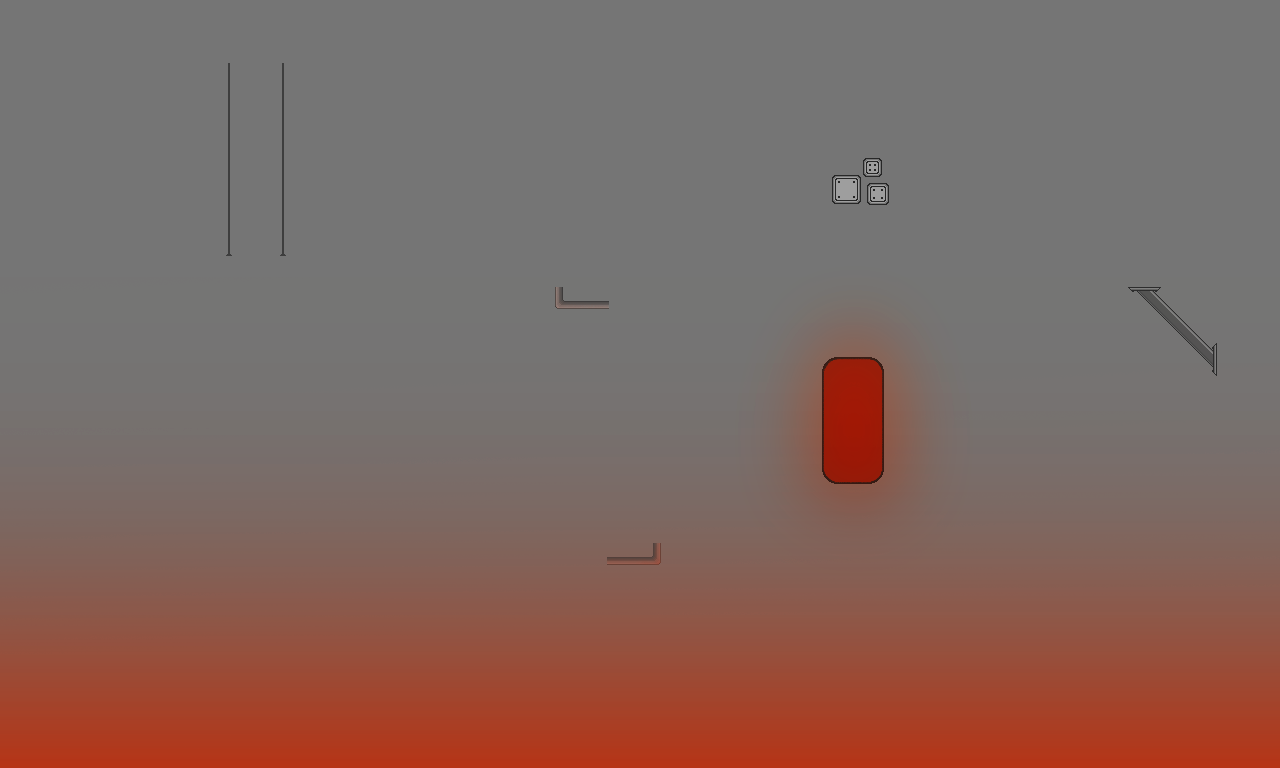
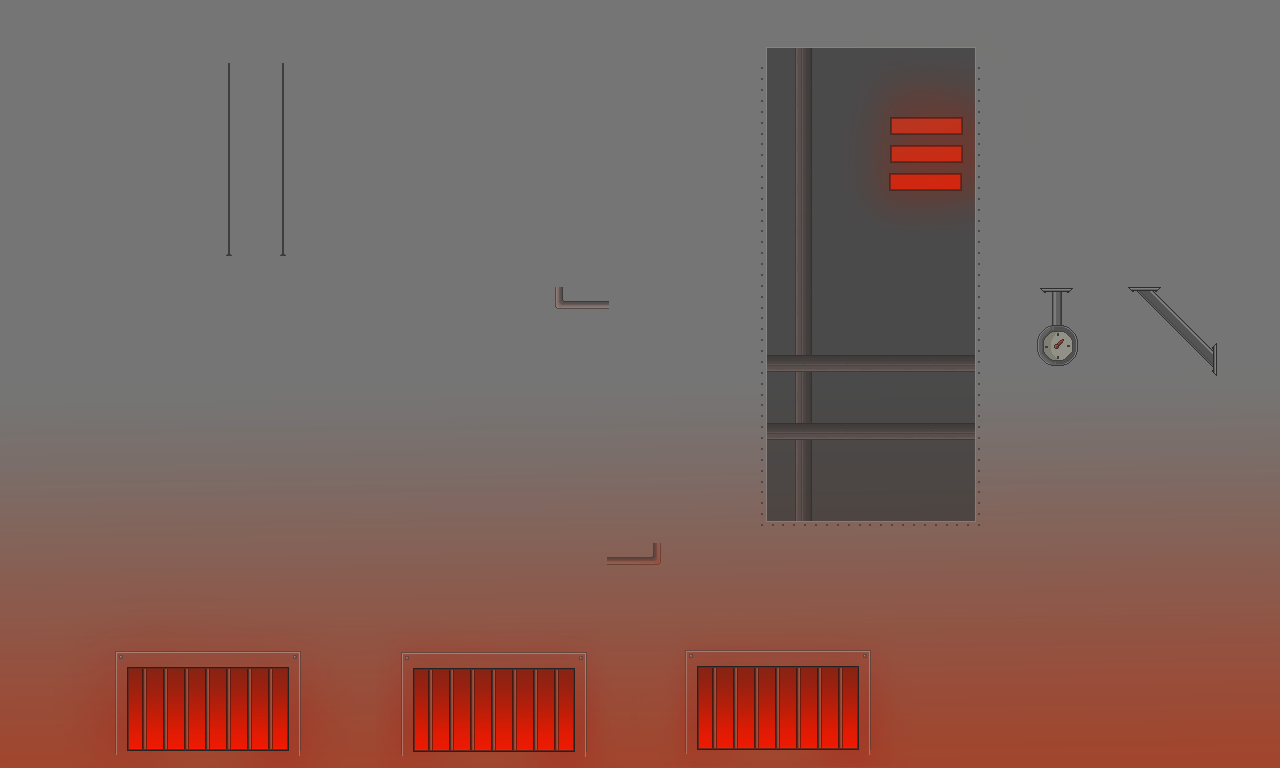
Cinema o småfix

diff --git a/RobotSplit/RobotSplit/BankMovie.cpp b/RobotSplit/RobotSplit/BankMovie.cpp
@@ -14,7 +14,11 @@ mWindow(Window::getWindow()),
 	mStix(Animation("StixWhole", 100, 1), sf::Vector2f(780, 574), false, false),
 	mStixWalk(Animation("StixWalk", 100, 8), sf::Vector2f(110, 574), false, true),
 	mStixSad(Animation("StixSad", 100, 1), sf::Vector2f(780, 574), false, false),
-	mJudge(Animation("JudgeAni", 100, 8), sf::Vector2f(1140, 280), false, true)
+	mJudge(Animation("JudgeAni", 100, 8), sf::Vector2f(1080, 242), false, true),
+	mTrapDoor(Animation("TrapDoor", 70, 15), sf::Vector2f(736, 668), false, false),
+	mButton(Animation("Button", 100, 1), sf::Vector2f(1060, 368), false, false),
+	mPressButton(Animation("JudgeButton", 70, 11), sf::Vector2f(1060, 242), false, false),
+	mFloor(Animation("RattFloor", 100, 1), sf::Vector2f(736, 683), false, false)
 {
 	mBackground=TextureManager::getSprite("CinemaBG3");
 	mBackground2=TextureManager::getSprite("CinemaBG4");
@@ -22,7 +26,6 @@ mWindow(Window::getWindow()),
 	mCounter=0;
 	mTime=0;
 	mColor=sf::Color(255, 255, 255, 255);
-	Music::stopMusic();
 
 	mStars.push_back(&mExclMark);
 	mStars.push_back(&mLights1);
@@ -31,16 +34,19 @@ mWindow(Window::getWindow()),
 	mStars.push_back(&mPolice);
 	mStars.push_back(&mPolice2);
 	mStars.push_back(&mStix);
+	mStars.push_back(&mTrapDoor);
 	mStars.push_back(&mStixSad);
 	mStars.push_back(&mJudge);
 	mStars.push_back(&mPoliceWalk);
 	mStars.push_back(&mPoliceWalk2);
 	mStars.push_back(&mStixWalk);
+	mStars.push_back(&mFloor);
+	mStars.push_back(&mButton);
+	mStars.push_back(&mPressButton);
 }
 void BankMovie::update()
 {
 	mTime++;
-	Music::stopMusic();
 	if(mCounter==0)
 		BankMovie::act();
 	else if(mCounter==1)
@@ -112,6 +118,7 @@ void BankMovie::countup()
 		mStix.setActive(true);
 		mPolice.setActive(true);
 		mPolice2.setActive(true);
+		mTime=0;
 	}
 }
 void BankMovie::endit()
@@ -163,6 +170,7 @@ void BankMovie::act2()
 		mPoliceWalk2.setActive(true);
 		mStixWalk.setActive(true);
 		mJudge.setActive(true);
+		mButton.setActive(true);
 	}
 	else if(mPoliceWalk.getPosition().x<590)
 	{
@@ -197,17 +205,28 @@ void BankMovie::act3()
 	{
 		Sound::playSound("MeanixTalkNormal");
 	}
-	else if(mTime<500 && mTime>400)
+	else if(mTime<400 && mTime>300)
 	{
 		Sound::playSound("StixTalkSad");
 		mStix.setActive(false);
 		mStixSad.setActive(true);
 	}
-	else if(mTime<700)
+	else if(mTime>600 && mTime<1000)
 	{
-		//Fallucka
+		mJudge.setActive(false);
+		mPressButton.setActive(true);
+		mButton.setActive(false);
+		if(mPressButton.getDone()==true){
+			mTrapDoor.setActive(true);
+			mFloor.setActive(true);
+			if(mTrapDoor.getDone()==true)
+			{
+				mStixSad.setPosition(mStixSad.getPosition() + sf::Vector2f(0, 3));
+				//Music::changeVolume(mMusicVolume);
+			}
+		}
 	}
-	else if(mTime>900)
+	else if(mTime>1000)
 	{
 		mCounter++;
 	}

diff --git a/RobotSplit/RobotSplit/TextureManager.cpp b/RobotSplit/RobotSplit/TextureManager.cpp
@@ -40,7 +40,6 @@ void TextureManager::loadTexture()
 	mTextureMap["MeanixBank2"].loadFromFile("Texture/Cinema/BankerAni.png");
 	mTextureMap["MeanixBank3"].loadFromFile("Texture/Cinema/mirror_Banker.png");
 	mTextureMap["MeanixBank4"].loadFromFile("Texture/Cinema/hatt_glas_kross_strip28.png");
-	
 
 	mTextureMap["CinemaBG1"].loadFromFile("Texture/Cinema/X-inaem HQ.png");
 	mTextureMap["CinemaBG2"].loadFromFile("Texture/Cinema/meanix_office_background.png");
@@ -55,6 +54,11 @@ void TextureManager::loadTexture()
 	mTextureMap["PoliceWalking"].loadFromFile("Texture/Cinema/polis_walking_strip8.png");
 	mTextureMap["StixSad"].loadFromFile("Texture/Cinema/StixSad.png");
 	mTextureMap["JudgeAni"].loadFromFile("Texture/Cinema/mirror_judge_animation_strip8.png");
+
+	mTextureMap["TrapDoor"].loadFromFile("Texture/Cinema/fallucks_animation.png");
+	mTextureMap["JudgeButton"].loadFromFile("Texture/Cinema/judge_knapp.png");
+	mTextureMap["Button"].loadFromFile("Texture/Cinema/knapp_Up.png");
+	mTextureMap["RattFloor"].loadFromFile("Texture/Cinema/Floor.png");
 	
 	//Ladda in texturen från en fil, behöver veta vad filerna på bilderna kommer att heta
 	mTextureMap["Background"].loadFromFile("Texture/Background/TestBackground3.png");
@@ -497,9 +501,7 @@ void TextureManager::loadTexture()
 
 	mTextureMap["BankBackground"].loadFromFile("Texture/Background/BackgroundBank.png");
 
-	mTextureMap["Bana1_bg1"].loadFromFile("Texture/Background/Background_Part01.png");
-
-	mTextureMap["Bana1_bg2"].loadFromFile("Texture/Background/Background_Part02.png");
+	mTextureMap["Bana1_bg1"].loadFromFile("Texture/Background/background.png");
 
 	mTextureMap["Bana2_bg1"].loadFromFile("Texture/Background/Background_2_Part01.png");
 

diff --git a/RobotSplit/RobotSplit/IntroMovie.cpp b/RobotSplit/RobotSplit/IntroMovie.cpp
@@ -12,7 +12,7 @@ mWindow(Window::getWindow()),
 	mDoor2Close(Animation("Door2Close", 100, 8), sf::Vector2f(0, 503), false, false),
 	mMeanix(Animation("MeanixBank", 100, 8), sf::Vector2f(806, 576), false, true),
 	mMeanixStill(Animation("MeanixBank3", 100, 1), sf::Vector2f(806, 576), false, false),
-	mMeanixHat(Animation("MeanixBank4", 100, 28), sf::Vector2f(806, 576), false, false)
+	mMeanixHat(Animation("MeanixBank4", 100, 28), sf::Vector2f(806, 0), false, false)
 {
 	mCounter=0;
 	mPlaying=true;
@@ -37,6 +37,7 @@ mWindow(Window::getWindow()),
 	mStars.push_back(&mDoor2Close);
 	mStars.push_back(&mMeanix);
 	mStars.push_back(&mMeanixStill);
+	mStars.push_back(&mMeanixHat);
 	Music::loadMusic("Music/tutorial_3.wav");
 	mTalk=false;
 	mDia=0;
@@ -171,24 +172,20 @@ void IntroMovie::update()
 		}
 		else
 		{
-			if(mStixJumpDown.getDone()==false)
+			if(mStixJumpDown.getDone()==false && mMeanixHat.getDone()==false)
 			{
 				mDialogs[mDialogs.size()-1]->deactivate();
 				mStixExtStill.setActive(false);
 				mStixExt.setActive(false);
 				mStixJumpDown.setActive(true);
+				mMeanixStill.setActive(false);
+				mMeanixHat.setActive(true);
 			}
-			else
+			else if(mStixJumpDown.getDone()==true && mMeanixHat.getDone()==true)
 			{
 				mPlaying=false;
 			}
 		}
-		//if(knapptryck)
-		//	if(mPratbubblorcounter<Pratbubblor.size())
-		//	mPratbubblorcounter++
-		//	mSetactivepratbubbla(mPratbubblorcounter)
-		//	else
-		//	mPlaying=false;
 	}
 	for(unsigned int i=0; i<mStars.size(); i++)
 	{

diff --git a/RobotSplit/RobotSplit/Game.cpp b/RobotSplit/RobotSplit/Game.cpp
@@ -127,6 +127,7 @@ void Game::changeMap(int map)
 	setMusic();
 
 	Music::playMusic();
+	mPlayer->restartPlayer();
 }
 
 void Game::setMusic()
@@ -141,7 +142,7 @@ void Game::setMusic()
 		Music::stopMusic();
 		Music::loadMusic("Music/bank_1.wav");
 	}
-	else if (mlevel.getName()=="Bana1")
+	else if (mlevel.getName()=="IntroBana")
 	{
 		Music::stopMusic();
 		Music::loadMusic("Music/level_1.wav");
@@ -239,11 +240,11 @@ void Game::input()
 			TestTimer.restart();
 			Objects->reset();
 		}
-		if(sf::Keyboard::isKeyPressed(sf::Keyboard::R))
-		{
-			mPlayer->reFuel();
-			TestTimer.restart();
-		}
+		//if(sf::Keyboard::isKeyPressed(sf::Keyboard::R))
+		//{
+		//	mPlayer->reFuel();
+		//	TestTimer.restart();
+		//}
 		if(sf::Keyboard::isKeyPressed(sf::Keyboard::F7))
 		{
 			Game::changeMap(-1);
@@ -254,11 +255,11 @@ void Game::input()
 			Game::changeMap(1);
 			TestTimer.restart();
 		}
-		if(sf::Keyboard::isKeyPressed(sf::Keyboard::F9))
-		{
-			mStateInput.changeState("Bank");
-			TestTimer.restart();
-		}
+		//if(sf::Keyboard::isKeyPressed(sf::Keyboard::F9))
+		//{
+		//	mStateInput.changeState("Bank");
+		//	TestTimer.restart();
+		//}
 		//runCollisions(Objects.getUnits(), *mPlayer);
 	}
 	if(sf::Keyboard::isKeyPressed(sf::Keyboard::Escape))

diff --git a/RobotSplit/RobotSplit/Main.cpp b/RobotSplit/RobotSplit/Main.cpp
@@ -46,7 +46,7 @@ int main()
 			FPSLIMIT.reset();	
 			while(mWindow.pollEvent(Window::getEvent()))
 			{
-				if(Window::getEvent().type == sf::Event::Closed || sf::Keyboard::isKeyPressed(sf::Keyboard::L))
+				if(Window::getEvent().type == sf::Event::Closed/* || sf::Keyboard::isKeyPressed(sf::Keyboard::L)*/)
 					mWindow.close();
 			
 				statemanager.inputState();

diff --git a/RobotSplit/RobotSplit/BankMovie.h b/RobotSplit/RobotSplit/BankMovie.h
@@ -30,6 +30,10 @@ private:
 	Star mStixWalk;
 	Star mStixSad;
 	Star mJudge;
+	Star mTrapDoor;
+	Star mButton;
+	Star mPressButton;
+	Star mFloor;
 	sf::RenderWindow& mWindow;
 	bool mPlaying;
 	float mCounter, mTime;

diff --git a/RobotSplit/RobotSplit/Player.h b/RobotSplit/RobotSplit/Player.h
@@ -26,6 +26,8 @@ public:
 	void resetAnimations();
 	void interact(int);
 
+	float getFallingSpeed();
+
 	std::vector<sf::Sprite*> getCollisionSprite();
 	void forceMove(int, sf::Vector2f);
 	void checkCollisionExt();

diff --git a/RobotSplit/RobotSplit/PlayerPartFeet.h b/RobotSplit/RobotSplit/PlayerPartFeet.h
@@ -39,6 +39,9 @@ public:
 	void decideAnimation(sf::Vector2f);
 	void restartAnimation();
 	void aniTimer();
+
+	float getFallingSpeed();
+
 private: 
 	bool mAttached, mAttachedWall;
 	Unit* mUnit;

diff --git a/RobotSplit/RobotSplit/Player.cpp b/RobotSplit/RobotSplit/Player.cpp
@@ -1040,3 +1040,8 @@ void Player::setStartingPosition(sf::Vector2f Vec)
 {
 	mStartPosition=Vec;
 }
+
+float Player::getFallingSpeed()
+{
+	return Eric::getGravity()-mFeet.getFallingSpeed();
+}

diff --git a/RobotSplit/RobotSplit/PlayerPartFeet.cpp b/RobotSplit/RobotSplit/PlayerPartFeet.cpp
@@ -451,3 +451,8 @@ void PlayerPartFeet::aniTimer()
 {
 	mAniTime=0;
 }
+
+float PlayerPartFeet::getFallingSpeed()
+{
+	return mJump;
+}
